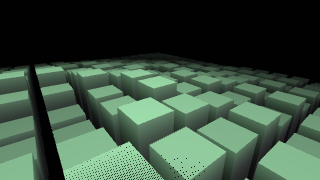
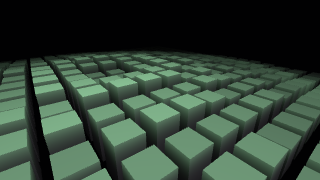
Refine Synthwave and calm 3D visualizers

diff --git a/visualizers/3d/prism-temple/visualizer.js b/visualizers/3d/prism-temple/visualizer.js
@@ -2,9 +2,9 @@ const VS=`attribute vec2 p;void main(){gl_Position=vec4(p,0.,1.);}`
 const FS=`
 precision highp float;uniform vec2 R;uniform float T,B,M,H,E,X;uniform vec3 C,A;
 mat2 rot(float a){float c=cos(a),s=sin(a);return mat2(c,-s,s,c);}float box(vec3 p,vec3 b){vec3 q=abs(p)-b;return length(max(q,0.))+min(max(q.x,max(q.y,q.z)),0.);}float oct(vec3 p,float s){p=abs(p);return (p.x+p.y+p.z-s)*.57735;}
-vec2 scene(vec3 p){float d=p.y+2.,id=0.;vec3 q=p;q.z=mod(p.z+3.,6.)-3.;float cols=min(box(vec3(abs(q.x)-3.4,q.y,q.z),vec3(.25,4.,.25)),box(vec3(abs(q.x)-4.1,q.y+1.8,q.z),vec3(.65,.18,.65)));if(cols<d){d=cols;id=2.;}vec3 s=p-vec3(0.,.15+sin(T*.7)*.15,1.);s.xz=rot(T*.25)*s.xz;s.xy=rot(.35)*s.xy;float prism=oct(s,1.15+B*.12);if(prism<d){d=prism;id=1.;}return vec2(d,id);}
+vec2 scene(vec3 p){float d=p.y+2.,id=0.;vec3 q=p;q.z=mod(p.z+3.,6.)-3.;float cols=min(box(vec3(abs(q.x)-3.4,q.y,q.z),vec3(.25,4.,.25)),box(vec3(abs(q.x)-4.1,q.y+1.8,q.z),vec3(.65,.18,.65)));if(cols<d){d=cols;id=2.;}vec3 s=p-vec3(0.,.15+sin(T*.7)*.15,1.);s.xz=rot(T*.25)*s.xz;s.xy=rot(.35)*s.xy;float prism=oct(s,1.35+B*.12);if(prism<d){d=prism;id=1.;}return vec2(d,id);}
 vec3 normal(vec3 p){vec2 e=vec2(.003,0.);return normalize(vec3(scene(p+e.xyy).x-scene(p-e.xyy).x,scene(p+e.yxy).x-scene(p-e.yxy).x,scene(p+e.yyx).x-scene(p-e.yyx).x));}
-void main(){vec2 uv=(2.*gl_FragCoord.xy-R)/R.y;vec3 ro=vec3(sin(T*.15)*.7,.3,7.-mod(T*.45,6.));vec3 ta=vec3(0.,0.,0.);vec3 fw=normalize(ta-ro),rt=normalize(cross(vec3(0,1,0),fw)),up=cross(fw,rt);vec3 rd=normalize(fw*1.65+rt*uv.x+up*uv.y);float d=0.,id=0.,glow=0.;for(int i=0;i<72;i++){vec2 s=scene(ro+rd*d);glow+=exp(-8.*max(s.x,0.))*.008*step(s.y,1.5);if(s.x<.003||d>42.)break;d+=s.x*.8;}vec3 col=vec3(.008,.004,.018)+A*pow(max(0.,1.-abs(rd.y)),8.)*.04;if(d<42.){vec3 p=ro+rd*d,n=normal(p);float fr=pow(1.-abs(dot(n,-rd)),3.);if(id<.5){vec2 g=abs(fract(p.xz*.5)-.5);float line=1.-smoothstep(.008,.025,min(g.x,g.y));col=vec3(.012,.008,.025)+mix(C,A,.5)*line*(.08+E*.25);col+=C*fr*.04;}else if(id<1.5){vec3 spectrum=mix(C,A,.5+.5*sin(p.y*3.+T));col=spectrum*(.12+fr*1.2)+vec3(1.)*pow(max(dot(reflect(rd,n),normalize(vec3(-.3,.8,.4))),0.),60.);col+=spectrum*X*.4;}else{float bands=pow(.5+.5*sin(p.y*9.-T*2.),18.);col=vec3(.04,.035,.06)*(.3+max(dot(n,normalize(vec3(-.5,.8,.3))),0.));col+=C*bands*(.04+H*.2)+A*fr*.08;}col=mix(col,vec3(.008,.004,.018),1.-exp(-d*.03));}col+=C*glow*(.3+E+X*.5);col=col/(col+vec3(.78));col*=1.-.25*dot(uv*.5,uv*.5);gl_FragColor=vec4(pow(col,vec3(.4545)),1.);}`
+void main(){vec2 uv=(2.*gl_FragCoord.xy-R)/R.y;vec3 ro=vec3(sin(T*.15)*.7,.3,5.5-mod(T*.45,6.));vec3 ta=vec3(0.,0.,0.);vec3 fw=normalize(ta-ro),rt=normalize(cross(vec3(0,1,0),fw)),up=cross(fw,rt);vec3 rd=normalize(fw*1.65+rt*uv.x+up*uv.y);float d=0.,id=0.,glow=0.;for(int i=0;i<72;i++){vec2 s=scene(ro+rd*d);glow+=exp(-8.*max(s.x,0.))*.008*step(s.y,1.5);if(s.x<.003||d>42.)break;d+=s.x*.8;}vec3 col=vec3(.008,.004,.018)+A*pow(max(0.,1.-abs(rd.y)),8.)*.04;if(d<42.){vec3 p=ro+rd*d,n=normal(p);float fr=pow(1.-abs(dot(n,-rd)),3.);if(id<.5){vec2 g=abs(fract(p.xz*.5)-.5);float line=1.-smoothstep(.008,.025,min(g.x,g.y));col=vec3(.012,.008,.025)+mix(C,A,.5)*line*(.08+E*.25);col+=C*fr*.04;}else if(id<1.5){vec3 spectrum=mix(C,A,.5+.5*sin(p.y*3.+T));col=spectrum*(.12+fr*1.2)+vec3(1.)*pow(max(dot(reflect(rd,n),normalize(vec3(-.3,.8,.4))),0.),60.);col+=spectrum*X*.4;}else{float bands=pow(.5+.5*sin(p.y*9.-T*2.),18.);col=vec3(.04,.035,.06)*(.3+max(dot(n,normalize(vec3(-.5,.8,.3))),0.));col+=C*bands*(.04+H*.2)+A*fr*.08;}col=mix(col,vec3(.008,.004,.018),1.-exp(-d*.03));}col+=C*glow*(.3+E+X*.5);col=col/(col+vec3(.78));col*=1.-.25*dot(uv*.5,uv*.5);gl_FragColor=vec4(pow(col,vec3(.4545)),1.);}`
 let g,p,b,u,last=0,pulse=0,beats=-1
 function shader(t,s){const x=g.createShader(t);g.shaderSource(x,s);g.compileShader(x);if(!g.getShaderParameter(x,g.COMPILE_STATUS))throw Error(g.getShaderInfoLog(x));return x}const rgb=(s,d)=>String(s||d).split(',').map(v=>Math.min(1,Math.max(0,Number(v)/255||0)))
 parrotify.register({webgl:true,maxPixelRatio:.75,color:'#e99bff',init(c){g=c;p=g.createProgram();g.attachShader(p,shader(g.VERTEX_SHADER,VS));g.attachShader(p,shader(g.FRAGMENT_SHADER,FS));g.linkProgram(p);if(!g.getProgramParameter(p,g.LINK_STATUS))throw Error(g.getProgramInfoLog(p));b=g.createBuffer();g.bindBuffer(g.ARRAY_BUFFER,b);g.bufferData(g.ARRAY_BUFFER,new Float32Array([-1,-1,3,-1,-1,3]),g.STATIC_DRAW);u={};for(const n of ['R','T','B','M','H','E','X','C','A'])u[n]=g.getUniformLocation(p,n)},draw(_,f){let dt=Math.min(.1,Math.max(0,f.time-(last||f.time)));last=f.time;if((f.beats||0)!==beats){beats=f.beats||0;pulse=1}pulse*=Math.exp(-dt*5);g.disable(g.DEPTH_TEST);g.useProgram(p);g.bindBuffer(g.ARRAY_BUFFER,b);let a=g.getAttribLocation(p,'p');g.enableVertexAttribArray(a);g.vertexAttribPointer(a,2,g.FLOAT,false,0,0);g.uniform2f(u.R,f.pw,f.ph);g.uniform1f(u.T,f.time%1000);g.uniform1f(u.B,f.bass);g.uniform1f(u.M,f.mid);g.uniform1f(u.H,f.high);g.uniform1f(u.E,f.energy);g.uniform1f(u.X,f.playing?pulse:0);g.uniform3fv(u.C,rgb(f.rgb,'233,155,255'));g.uniform3fv(u.A,rgb(f.accentRgb,'70,210,255'));g.drawArrays(g.TRIANGLES,0,3)}})

diff --git a/visualizers/3d/torus-beats/visualizer.js b/visualizers/3d/torus-beats/visualizer.js
@@ -4,7 +4,7 @@ precision highp float;uniform vec2 R;uniform float T,B,M,H,E,X;uniform vec3 C,A;
 mat2 rot(float a){float c=cos(a),s=sin(a);return mat2(c,-s,s,c);}float torus(vec3 p,vec2 t){return length(vec2(length(p.xz)-t.x,p.y))-t.y;}
 vec2 scene(vec3 p){float d=length(p)-.35-B*.08,id=0.;for(int i=0;i<3;i++){float fi=float(i);vec3 q=p;q.xy=rot(fi*1.047+T*(.13+fi*.03))*q.xy;q.yz=rot(.55+fi*.7+M*.15)*q.yz;float t=torus(q,vec2(1.+fi*.25+B*.07,.055+fi*.012));if(t<d){d=t;id=1.+fi;}}return vec2(d,id);}
 vec3 normal(vec3 p){vec2 e=vec2(.002,0.);return normalize(vec3(scene(p+e.xyy).x-scene(p-e.xyy).x,scene(p+e.yxy).x-scene(p-e.yxy).x,scene(p+e.yyx).x-scene(p-e.yyx).x));}
-void main(){vec2 uv=(2.*gl_FragCoord.xy-R)/R.y;float a=T*.07;vec3 ro=vec3(sin(a)*5.,1.5,cos(a)*5.);vec3 fw=normalize(-ro),rt=normalize(cross(vec3(0,1,0),fw)),up=cross(fw,rt);vec3 rd=normalize(fw*1.8+rt*uv.x+up*uv.y);float d=0.,id=0.,glow=0.;for(int i=0;i<70;i++){vec2 s=scene(ro+rd*d);glow+=exp(-9.*max(s.x,0.))*.006;if(s.x<.002||d>22.)break;d+=s.x*.85;}vec3 col=vec3(.002,.003,.012);if(d<22.){vec3 p=ro+rd*d,n=normal(p);float dif=max(dot(n,normalize(vec3(-.5,.8,.3))),0.),fr=pow(1.-max(dot(n,-rd),0.),2.);vec3 tint=mix(C,A,id/3.);col=tint*(.08+dif*.3+fr*(.3+H*.5)+X*.35);col+=vec3(1.)*pow(dif,40.)*.4;}col+=mix(C,A,.5)*glow*(.3+E+X*.5);col=col/(col+vec3(.8));col*=1.-.25*dot(uv*.5,uv*.5);gl_FragColor=vec4(pow(col,vec3(.4545)),1.);}`
+void main(){vec2 uv=(2.*gl_FragCoord.xy-R)/R.y;float a=T*.07;vec3 ro=vec3(sin(a)*4.2,1.5,cos(a)*4.2);vec3 fw=normalize(-ro),rt=normalize(cross(vec3(0,1,0),fw)),up=cross(fw,rt);vec3 rd=normalize(fw*1.8+rt*uv.x+up*uv.y);float d=0.,id=0.,glow=0.;for(int i=0;i<70;i++){vec2 s=scene(ro+rd*d);glow+=exp(-9.*max(s.x,0.))*.006;if(s.x<.002||d>22.)break;d+=s.x*.85;}vec3 col=vec3(.002,.003,.012);if(d<22.){vec3 p=ro+rd*d,n=normal(p);float dif=max(dot(n,normalize(vec3(-.5,.8,.3))),0.),fr=pow(1.-max(dot(n,-rd),0.),2.);vec3 tint=mix(C,A,id/3.);col=tint*(.08+dif*.3+fr*(.3+H*.5)+X*.35);col+=vec3(1.)*pow(dif,40.)*.4;}col+=mix(C,A,.5)*glow*(.3+E+X*.5);col=col/(col+vec3(.8));col*=1.-.25*dot(uv*.5,uv*.5);gl_FragColor=vec4(pow(col,vec3(.4545)),1.);}`
 let g,p,b,u,last=0,pulse=0,beats=-1
 function shader(t,s){const x=g.createShader(t);g.shaderSource(x,s);g.compileShader(x);if(!g.getShaderParameter(x,g.COMPILE_STATUS))throw Error(g.getShaderInfoLog(x));return x}const rgb=(s,d)=>String(s||d).split(',').map(v=>Math.min(1,Math.max(0,Number(v)/255||0)))
 parrotify.register({webgl:true,maxPixelRatio:.8,color:'#ff5c9f',init(c){g=c;p=g.createProgram();g.attachShader(p,shader(g.VERTEX_SHADER,VS));g.attachShader(p,shader(g.FRAGMENT_SHADER,FS));g.linkProgram(p);if(!g.getProgramParameter(p,g.LINK_STATUS))throw Error(g.getProgramInfoLog(p));b=g.createBuffer();g.bindBuffer(g.ARRAY_BUFFER,b);g.bufferData(g.ARRAY_BUFFER,new Float32Array([-1,-1,3,-1,-1,3]),g.STATIC_DRAW);u={};for(const n of ['R','T','B','M','H','E','X','C','A'])u[n]=g.getUniformLocation(p,n)},draw(_,f){let dt=Math.min(.1,Math.max(0,f.time-(last||f.time)));last=f.time;if((f.beats||0)!==beats){beats=f.beats||0;pulse=1}pulse*=Math.exp(-dt*5);g.disable(g.DEPTH_TEST);g.useProgram(p);g.bindBuffer(g.ARRAY_BUFFER,b);let a=g.getAttribLocation(p,'p');g.enableVertexAttribArray(a);g.vertexAttribPointer(a,2,g.FLOAT,false,0,0);g.uniform2f(u.R,f.pw,f.ph);g.uniform1f(u.T,f.time%1000);g.uniform1f(u.B,f.bass);g.uniform1f(u.M,f.mid);g.uniform1f(u.H,f.high);g.uniform1f(u.E,f.energy);g.uniform1f(u.X,f.playing?pulse:0);g.uniform3fv(u.C,rgb(f.rgb,'255,92,159'));g.uniform3fv(u.A,rgb(f.accentRgb,'70,215,255'));g.drawArrays(g.TRIANGLES,0,3)}})

diff --git a/visualizers/3d/liquid-metal/visualizer.js b/visualizers/3d/liquid-metal/visualizer.js
@@ -5,7 +5,7 @@ float smin(float a,float b,float k){float h=clamp(.5+.5*(b-a)/k,0.,1.);return mi
 float scene(vec3 p){float d=10.;for(int i=0;i<6;i++){float fi=float(i),a=fi*1.047+T*(.18+fi*.01);vec3 c=vec3(cos(a)*(1.+sin(T*.3+fi)*.35),sin(a*2.+T*.5)*.55,sin(a)*(1.+cos(T*.25+fi)*.25));float s=length(p-c)-(.45+B*.16+.08*sin(fi*4.));d=smin(d,s,.5+M*.2);}return d;}
 vec3 normal(vec3 p){vec2 e=vec2(.003,0.);return normalize(vec3(scene(p+e.xyy)-scene(p-e.xyy),scene(p+e.yxy)-scene(p-e.yxy),scene(p+e.yyx)-scene(p-e.yyx)));}
 vec3 env(vec3 r){float band=pow(.5+.5*sin(atan(r.z,r.x)*6.+r.y*14.-T*.25),18.);return vec3(.008,.012,.025)+mix(C,A,.5+.5*sin(r.y*8.))*band*(.35+H*.5)+vec3(1.)*pow(max(r.y,0.),40.)*.6;}
-void main(){vec2 uv=(2.*gl_FragCoord.xy-R)/R.y;float a=.4+T*.06;vec3 ro=vec3(sin(a)*5.,1.4,cos(a)*5.);vec3 fw=normalize(-ro),rt=normalize(cross(vec3(0,1,0),fw)),up=cross(fw,rt);vec3 rd=normalize(fw*1.8+rt*uv.x+up*uv.y);float d=0.;for(int i=0;i<74;i++){float s=scene(ro+rd*d);if(s<.002||d>22.)break;d+=s*.8;}vec3 col=env(rd)*.45;if(d<22.){vec3 p=ro+rd*d,n=normal(p);float fr=pow(1.-max(dot(n,-rd),0.),3.);col=env(reflect(rd,n))*1.35+vec3(.04)+C*fr*(.08+X*.3);col+=vec3(1.)*pow(max(dot(reflect(-normalize(vec3(-.4,.8,.3)),n),-rd),0.),90.)*1.5;}col=col/(col+vec3(.8));col*=1.-.25*dot(uv*.5,uv*.5);gl_FragColor=vec4(pow(col,vec3(.4545)),1.);}`
+void main(){vec2 uv=(2.*gl_FragCoord.xy-R)/R.y;float a=.4+T*.06;vec3 ro=vec3(sin(a)*3.8,1.4,cos(a)*3.8);vec3 fw=normalize(-ro),rt=normalize(cross(vec3(0,1,0),fw)),up=cross(fw,rt);vec3 rd=normalize(fw*1.8+rt*uv.x+up*uv.y);float d=0.;for(int i=0;i<74;i++){float s=scene(ro+rd*d);if(s<.002||d>22.)break;d+=s*.8;}vec3 col=env(rd)*.45;if(d<22.){vec3 p=ro+rd*d,n=normal(p);float fr=pow(1.-max(dot(n,-rd),0.),3.);col=env(reflect(rd,n))*1.35+vec3(.04)+C*fr*(.08+X*.3);col+=vec3(1.)*pow(max(dot(reflect(-normalize(vec3(-.4,.8,.3)),n),-rd),0.),90.)*1.5;}col=col/(col+vec3(.8));col*=1.-.25*dot(uv*.5,uv*.5);gl_FragColor=vec4(pow(col,vec3(.4545)),1.);}`
 let g,p,b,u,last=0,pulse=0,beats=-1
 function shader(t,s){const x=g.createShader(t);g.shaderSource(x,s);g.compileShader(x);if(!g.getShaderParameter(x,g.COMPILE_STATUS))throw Error(g.getShaderInfoLog(x));return x}const rgb=(s,d)=>String(s||d).split(',').map(v=>Math.min(1,Math.max(0,Number(v)/255||0)))
 parrotify.register({webgl:true,maxPixelRatio:.75,color:'#b7e4ff',init(c){g=c;p=g.createProgram();g.attachShader(p,shader(g.VERTEX_SHADER,VS));g.attachShader(p,shader(g.FRAGMENT_SHADER,FS));g.linkProgram(p);if(!g.getProgramParameter(p,g.LINK_STATUS))throw Error(g.getProgramInfoLog(p));b=g.createBuffer();g.bindBuffer(g.ARRAY_BUFFER,b);g.bufferData(g.ARRAY_BUFFER,new Float32Array([-1,-1,3,-1,-1,3]),g.STATIC_DRAW);u={};for(const n of ['R','T','B','M','H','E','X','C','A'])u[n]=g.getUniformLocation(p,n)},draw(_,f){let dt=Math.min(.1,Math.max(0,f.time-(last||f.time)));last=f.time;if((f.beats||0)!==beats){beats=f.beats||0;pulse=1}pulse*=Math.exp(-dt*5);g.disable(g.DEPTH_TEST);g.useProgram(p);g.bindBuffer(g.ARRAY_BUFFER,b);let a=g.getAttribLocation(p,'p');g.enableVertexAttribArray(a);g.vertexAttribPointer(a,2,g.FLOAT,false,0,0);g.uniform2f(u.R,f.pw,f.ph);g.uniform1f(u.T,f.time%1000);g.uniform1f(u.B,f.bass);g.uniform1f(u.M,f.mid);g.uniform1f(u.H,f.high);g.uniform1f(u.E,f.energy);g.uniform1f(u.X,f.playing?pulse:0);g.uniform3fv(u.C,rgb(f.rgb,'183,228,255'));g.uniform3fv(u.A,rgb(f.accentRgb,'180,100,255'));g.drawArrays(g.TRIANGLES,0,3)}})

diff --git a/visualizers/3d/pillars/visualizer.js b/visualizers/3d/pillars/visualizer.js
@@ -15,7 +15,7 @@ void main() {
   int band = int(clamp(r * 31.0, 0.0, 31.0));
   float level = 0.0;
   for (int i = 0; i < 32; i++) if (i == band) level = uLevels[i];
-  float h = 0.15 + level * 3.2;
+  float h = 0.18 + level * 2.6;
   vec3 p = vec3(c.x * 1.4 + aCorner.x * 0.5, aCorner.y * h, c.y * 1.4 + aCorner.z * 0.5);
   vNor = aNor;
   vTop = aCorner.y;
@@ -57,6 +57,7 @@ let lastBeats = 0
 let flash = 0
 let wave = 2 // the ring's radius (0 centre … 1 edge; beyond: gone)
 let last = 0
+const smoothLevels = new Float32Array(32)
 
 const sub = (a, b) => [a[0] - b[0], a[1] - b[1], a[2] - b[2]]
 const norm = (a) => { const l = Math.hypot(a[0], a[1], a[2]) || 1; return [a[0] / l, a[1] / l, a[2] / l] }
@@ -120,13 +121,13 @@ parrotify.register({
     last = f.time
     if (f.beats !== lastBeats) {
       lastBeats = f.beats
-      flash = 1
+      flash = 0.7
       wave = 0
-      if (f.beats % 4 === 0 && f.time - shotAt > 1.2) { shot++; shotAt = f.time }
+      if (f.beats % 16 === 0 && f.time - shotAt > 4) { shot++; shotAt = f.time }
     }
-    if (f.time - shotAt > 8) { shot++; shotAt = f.time }
-    flash *= Math.exp(-dt * 6)
-    wave += dt * 1.3
+    if (f.time - shotAt > 14) { shot++; shotAt = f.time }
+    flash *= Math.exp(-dt * 3)
+    wave += dt * 0.8
 
     gl.clearColor(0.004, 0.003, 0.006, 1)
     gl.clear(gl.COLOR_BUFFER_BIT | gl.DEPTH_BUFFER_BIT)
@@ -136,8 +137,8 @@ parrotify.register({
     // a run low over the field: from a side, heading across, slowly moving
     const t = f.time - shotAt
     const dir = rnd(shot) * Math.PI * 2
-    const height = 1.5 + rnd(shot + 0.3) * 4
-    const run = -16 + t * (1.2 + rnd(shot + 0.6))
+    const height = 2.4 + rnd(shot + 0.3) * 3
+    const run = -16 + t * (0.65 + rnd(shot + 0.6) * 0.35)
     const sideways = (rnd(shot + 0.9) - 0.5) * 10
     const eye = [Math.cos(dir) * run - Math.sin(dir) * sideways, height, Math.sin(dir) * run + Math.cos(dir) * sideways]
     const look = [eye[0] + Math.cos(dir) * 10, 0.6, eye[2] + Math.sin(dir) * 10]
@@ -145,8 +146,11 @@ parrotify.register({
 
     const U = (n) => gl.getUniformLocation(prog, n)
     gl.uniformMatrix4fv(U('uMvp'), false, mvp)
-    const lv = new Float32Array(32)
-    for (let i = 0; i < 32; i++) lv[i] = Math.max(f.levels[i * 2] || 0, f.levels[i * 2 + 1] || 0)
+    const lv = smoothLevels
+    for (let i = 0; i < 32; i++) {
+      const target = Math.max(f.levels[i * 2] || 0, f.levels[i * 2 + 1] || 0)
+      lv[i] += (target - lv[i]) * Math.min(1, dt * 3)
+    }
     gl.uniform1fv(U('uLevels[0]'), lv)
     gl.uniform1f(U('uWave'), f.playing ? wave : 2)
     gl.uniform3fv(U('uTint'), rgb(f.rgb))

diff --git a/visualizers/3d/synthwave-3d/visualizer.js b/visualizers/3d/synthwave-3d/visualizer.js
@@ -47,9 +47,9 @@ vec3 finish(vec3 col, vec2 p) {
 }
 void main() {
   vec2 p = vec2(vUv.x * uRes.x / max(uRes.y, 1.0), vUv.y);
-  float roll = sin(uTime * 0.19) * 0.012 + (uMid - 0.25) * 0.012;
-  p = mat2(cos(roll), -sin(roll), sin(roll), cos(roll)) * p;
-  float horizon = -0.13 + sin(uTime * 0.23) * 0.012;
+  float yaw = sin(uTime * 0.24) * 0.12 + sin(uTime * 0.071) * 0.045;
+  p.x += yaw * (0.55 - p.y * 0.35);
+  float horizon = -0.13 + sin(p.x * 2.4 + uTime * 0.7) * 0.032 + sin(p.x * 5.2 - uTime * 0.45) * 0.014;
   vec3 skyTop = vec3(0.018, 0.008, 0.075);
   vec3 skyLow = vec3(0.19, 0.018, 0.19) + uAccent * 0.055;
   vec3 col = mix(skyLow, skyTop, smoothstep(-0.15, 1.0, p.y));
@@ -64,7 +64,7 @@ void main() {
 
   vec2 sunP = vec2(sin(uTime * 0.1) * 0.055, 0.37 + sin(uTime * 0.17) * 0.012);
   vec2 q = p - sunP;
-  float radius = 0.405 * (1.0 + uBass * 0.055 + uBeat * 0.025);
+  float radius = 0.34 + uBass * 0.12 + uEnergy * 0.065 + uBeat * 0.025;
   float d = length(q * vec2(1.0, 1.04));
   float disc = 1.0 - smoothstep(radius - 0.004, radius + 0.004, d);
   float cuts = smoothstep(0.09, 0.19, abs(sin((q.y + 0.12) * 38.0)));
@@ -72,8 +72,8 @@ void main() {
   disc *= cuts;
   vec3 sunCol = mix(vec3(1.0, 0.12, 0.34), vec3(1.0, 0.83, 0.24), smoothstep(-radius, radius, q.y));
   sunCol = mix(sunCol, uTint * 1.4, 0.08);
-  col += sunCol * exp(-max(d - radius, 0.0) * 10.0) * (0.24 + uBeat * 0.22);
-  col = mix(col, sunCol * (1.15 + uEnergy * 0.3), disc);
+  col += sunCol * exp(-max(d - radius, 0.0) * 10.0) * (0.16 + uEnergy * 0.24 + uBeat * 0.24);
+  col = mix(col, sunCol * (0.75 + uEnergy * 0.65 + uBeat * 0.35), disc);
 
   float rFar = 0.015 + fbm(vec2(p.x * 1.25 + 7.0, 3.1)) * 0.29 + uLevels[2] * 0.035;
   float rNear = -0.065 + fbm(vec2(p.x * 1.85 + 19.0, 8.7)) * 0.34 + uLevels[5] * 0.055;

diff --git a/visualizers/3d/diamond-core/visualizer.js b/visualizers/3d/diamond-core/visualizer.js
@@ -14,7 +14,7 @@ vec2 scene(vec3 p){
 vec3 normal(vec3 p){vec2 e=vec2(.002,0.);return normalize(vec3(scene(p+e.xyy).x-scene(p-e.xyy).x,scene(p+e.yxy).x-scene(p-e.yxy).x,scene(p+e.yyx).x-scene(p-e.yyx).x));}
 vec3 env(vec3 r){float band=pow(.5+.5*sin(atan(r.z,r.x)*8.+r.y*12.-T*.3),16.);return vec3(.004,.006,.018)+mix(C,A,.5+.5*sin(r.y*9.))*band*(.12+H*.25)+vec3(.7,.85,1.)*pow(max(r.y,0.),24.)*.4;}
 void main(){
- vec2 uv=(2.*gl_FragCoord.xy-R)/R.y;float a=.4+T*.07;vec3 ro=vec3(cos(a)*5.6,1.8+sin(T*.17)*.4,sin(a)*5.6);vec3 fw=normalize(-ro),rt=normalize(cross(vec3(0.,1.,0.),fw)),up=cross(fw,rt);vec3 rd=normalize(fw*1.8+rt*uv.x+up*uv.y);
+ vec2 uv=(2.*gl_FragCoord.xy-R)/R.y;float a=.4+T*.07;vec3 ro=vec3(cos(a)*4.2,1.5+sin(T*.17)*.35,sin(a)*4.2);vec3 fw=normalize(-ro),rt=normalize(cross(vec3(0.,1.,0.),fw)),up=cross(fw,rt);vec3 rd=normalize(fw*1.8+rt*uv.x+up*uv.y);
  float d=0.,id=0.,aura=0.;for(int i=0;i<70;i++){vec2 s=scene(ro+rd*d);aura+=exp(-8.*max(s.x,0.))*.009;if(s.x<.002||d>24.)break;d+=s.x*.82;}
  vec3 col=env(rd);if(d<24.){vec3 p=ro+rd*d,n=normal(p),v=-rd;float fr=pow(1.-max(dot(n,v),0.),2.);vec3 tint=id<1.5?mix(C,A,.28+.2*sin(p.y*4.)):A;col=tint*(.08+fr*.9)+env(reflect(rd,n))*1.7;col+=vec3(1.)*pow(max(dot(reflect(-normalize(vec3(-.4,.8,.3)),n),v),0.),80.)*2.;col+=tint*X*.45;}
  col+=mix(C,A,.45)*aura*(.5+E+X);float ring=exp(-abs(length(uv)-1.1-X*.08)*90.);col+=C*ring*X*.25;col=col/(col+vec3(.7));col*=1.-.25*dot(uv*.5,uv*.5);gl_FragColor=vec4(pow(col,vec3(.4545)),1.);

diff --git a/README.md b/README.md
@@ -23,7 +23,7 @@ visualizers/<category>/<id>/preview.gif     animated preview (node tools/preview
 
 <!-- GALLERY:BEGIN -->
 
-All 107 presets, animated with a synthetic spectrum. Click an image for the full-size GIF.
+All 105 presets, animated with a synthetic spectrum. Click an image for the full-size GIF.
 
 ### 2D
 
@@ -66,11 +66,10 @@ All 107 presets, animated with a synthetic spectrum. Click an image for the full
 | [![Cube Vortex](visualizers/3d/cube-vortex/preview.gif)](visualizers/3d/cube-vortex/preview.gif)<br>[Cube Vortex](visualizers/3d/cube-vortex/visualizer.js) | [![Data Skyline](visualizers/3d/data-skyline/preview.gif)](visualizers/3d/data-skyline/preview.gif)<br>[Data Skyline](visualizers/3d/data-skyline/visualizer.js) | [![Diamond Core](visualizers/3d/diamond-core/preview.gif)](visualizers/3d/diamond-core/preview.gif)<br>[Diamond Core](visualizers/3d/diamond-core/visualizer.js) |
 | [![Digital City](visualizers/3d/digital-city/preview.gif)](visualizers/3d/digital-city/preview.gif)<br>[Digital City](visualizers/3d/digital-city/visualizer.js) | [![Geometric Tunnel](visualizers/3d/geometric-tunnel/preview.gif)](visualizers/3d/geometric-tunnel/preview.gif)<br>[Geometric Tunnel](visualizers/3d/geometric-tunnel/visualizer.js) | [![Grid Runner](visualizers/3d/grid-runner/preview.gif)](visualizers/3d/grid-runner/preview.gif)<br>[Grid Runner](visualizers/3d/grid-runner/visualizer.js) |
 | [![Ice Fracture](visualizers/3d/ice-fracture/preview.gif)](visualizers/3d/ice-fracture/preview.gif)<br>[Ice Fracture](visualizers/3d/ice-fracture/visualizer.js) | [![Kaleido Sphere](visualizers/3d/kaleido-sphere/preview.gif)](visualizers/3d/kaleido-sphere/preview.gif)<br>[Kaleido Sphere](visualizers/3d/kaleido-sphere/visualizer.js) | [![Liquid Metal](visualizers/3d/liquid-metal/preview.gif)](visualizers/3d/liquid-metal/preview.gif)<br>[Liquid Metal](visualizers/3d/liquid-metal/visualizer.js) |
-| [![Neon Crystals](visualizers/3d/neon-crystals/preview.gif)](visualizers/3d/neon-crystals/preview.gif)<br>[Neon Crystals](visualizers/3d/neon-crystals/visualizer.js) | [![Neon Horizon](visualizers/3d/neon-horizon/preview.gif)](visualizers/3d/neon-horizon/preview.gif)<br>[Neon Horizon](visualizers/3d/neon-horizon/visualizer.js) | [![Ocean Depths](visualizers/3d/ocean-depths/preview.gif)](visualizers/3d/ocean-depths/preview.gif)<br>[Ocean Depths](visualizers/3d/ocean-depths/visualizer.js) |
-| [![Orbital Rings](visualizers/3d/orbital-rings/preview.gif)](visualizers/3d/orbital-rings/preview.gif)<br>[Orbital Rings](visualizers/3d/orbital-rings/visualizer.js) | [![Particle Nebula](visualizers/3d/particle-nebula/preview.gif)](visualizers/3d/particle-nebula/preview.gif)<br>[Particle Nebula](visualizers/3d/particle-nebula/visualizer.js) | [![Prism Temple](visualizers/3d/prism-temple/preview.gif)](visualizers/3d/prism-temple/preview.gif)<br>[Prism Temple](visualizers/3d/prism-temple/visualizer.js) |
-| [![Retro Sun](visualizers/3d/retro-sun/preview.gif)](visualizers/3d/retro-sun/preview.gif)<br>[Retro Sun](visualizers/3d/retro-sun/visualizer.js) | [![Skyscraper Pulse](visualizers/3d/skyscraper-pulse/preview.gif)](visualizers/3d/skyscraper-pulse/preview.gif)<br>[Skyscraper Pulse](visualizers/3d/skyscraper-pulse/visualizer.js) | [![Starfield Warp](visualizers/3d/starfield-warp/preview.gif)](visualizers/3d/starfield-warp/preview.gif)<br>[Starfield Warp](visualizers/3d/starfield-warp/visualizer.js) |
-| [![Supernova](visualizers/3d/supernova/preview.gif)](visualizers/3d/supernova/preview.gif)<br>[Supernova](visualizers/3d/supernova/visualizer.js) | [![Synthwave 3D](visualizers/3d/synthwave-3d/preview.gif)](visualizers/3d/synthwave-3d/preview.gif)<br>[Synthwave 3D](visualizers/3d/synthwave-3d/visualizer.js) | [![Torus Beats](visualizers/3d/torus-beats/preview.gif)](visualizers/3d/torus-beats/preview.gif)<br>[Torus Beats](visualizers/3d/torus-beats/visualizer.js) |
-| [![Wave Ribbon](visualizers/3d/wave-ribbon/preview.gif)](visualizers/3d/wave-ribbon/preview.gif)<br>[Wave Ribbon](visualizers/3d/wave-ribbon/visualizer.js) |  |  |
+| [![Neon Crystals](visualizers/3d/neon-crystals/preview.gif)](visualizers/3d/neon-crystals/preview.gif)<br>[Neon Crystals](visualizers/3d/neon-crystals/visualizer.js) | [![Ocean Depths](visualizers/3d/ocean-depths/preview.gif)](visualizers/3d/ocean-depths/preview.gif)<br>[Ocean Depths](visualizers/3d/ocean-depths/visualizer.js) | [![Orbital Rings](visualizers/3d/orbital-rings/preview.gif)](visualizers/3d/orbital-rings/preview.gif)<br>[Orbital Rings](visualizers/3d/orbital-rings/visualizer.js) |
+| [![Particle Nebula](visualizers/3d/particle-nebula/preview.gif)](visualizers/3d/particle-nebula/preview.gif)<br>[Particle Nebula](visualizers/3d/particle-nebula/visualizer.js) | [![Prism Temple](visualizers/3d/prism-temple/preview.gif)](visualizers/3d/prism-temple/preview.gif)<br>[Prism Temple](visualizers/3d/prism-temple/visualizer.js) | [![Skyscraper Pulse](visualizers/3d/skyscraper-pulse/preview.gif)](visualizers/3d/skyscraper-pulse/preview.gif)<br>[Skyscraper Pulse](visualizers/3d/skyscraper-pulse/visualizer.js) |
+| [![Starfield Warp](visualizers/3d/starfield-warp/preview.gif)](visualizers/3d/starfield-warp/preview.gif)<br>[Starfield Warp](visualizers/3d/starfield-warp/visualizer.js) | [![Supernova](visualizers/3d/supernova/preview.gif)](visualizers/3d/supernova/preview.gif)<br>[Supernova](visualizers/3d/supernova/visualizer.js) | [![Synthwave 3D](visualizers/3d/synthwave-3d/preview.gif)](visualizers/3d/synthwave-3d/preview.gif)<br>[Synthwave 3D](visualizers/3d/synthwave-3d/visualizer.js) |
+| [![Torus Beats](visualizers/3d/torus-beats/preview.gif)](visualizers/3d/torus-beats/preview.gif)<br>[Torus Beats](visualizers/3d/torus-beats/visualizer.js) | [![Wave Ribbon](visualizers/3d/wave-ribbon/preview.gif)](visualizers/3d/wave-ribbon/preview.gif)<br>[Wave Ribbon](visualizers/3d/wave-ribbon/visualizer.js) |  |
 
 <!-- GALLERY:END -->
 
